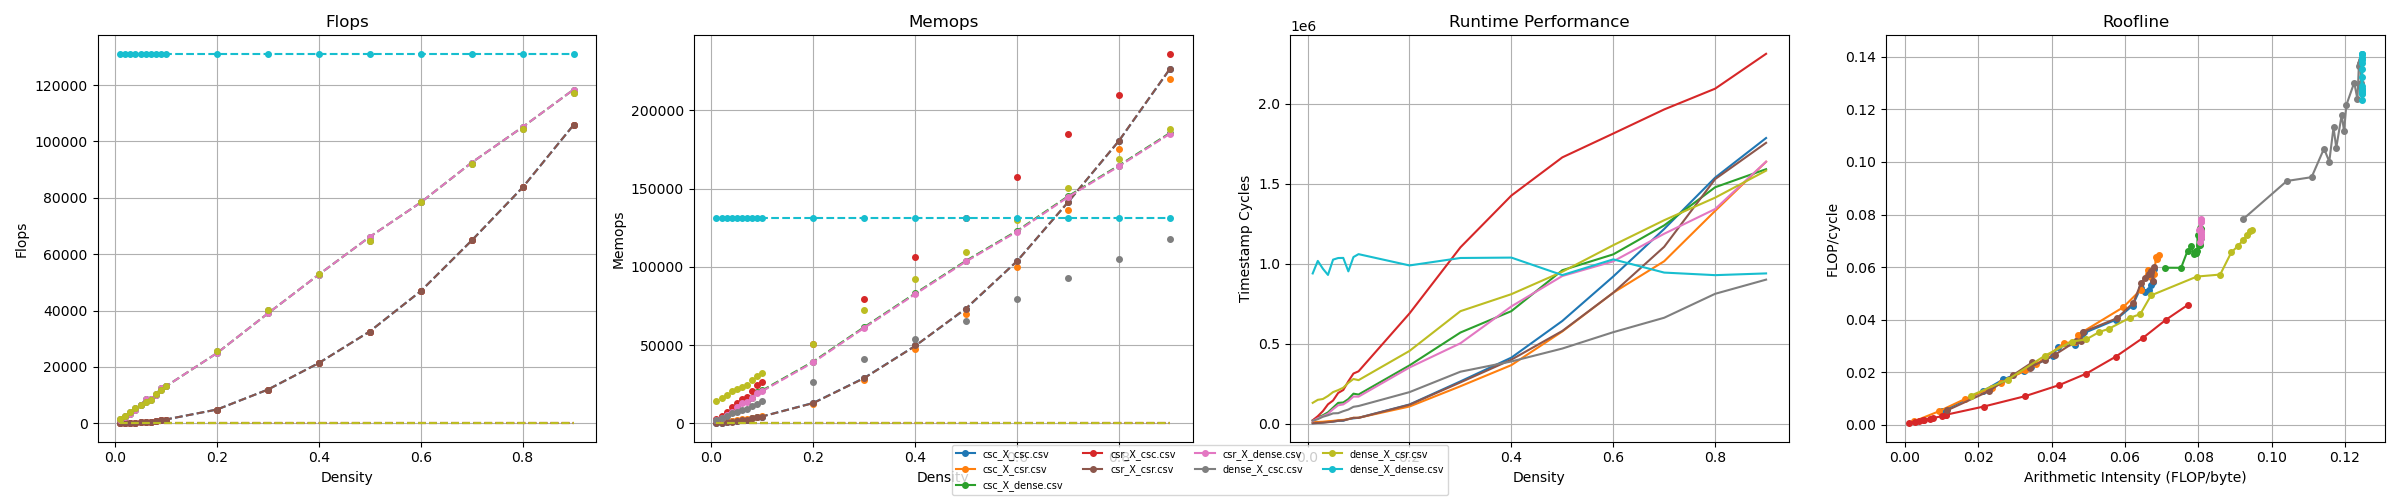
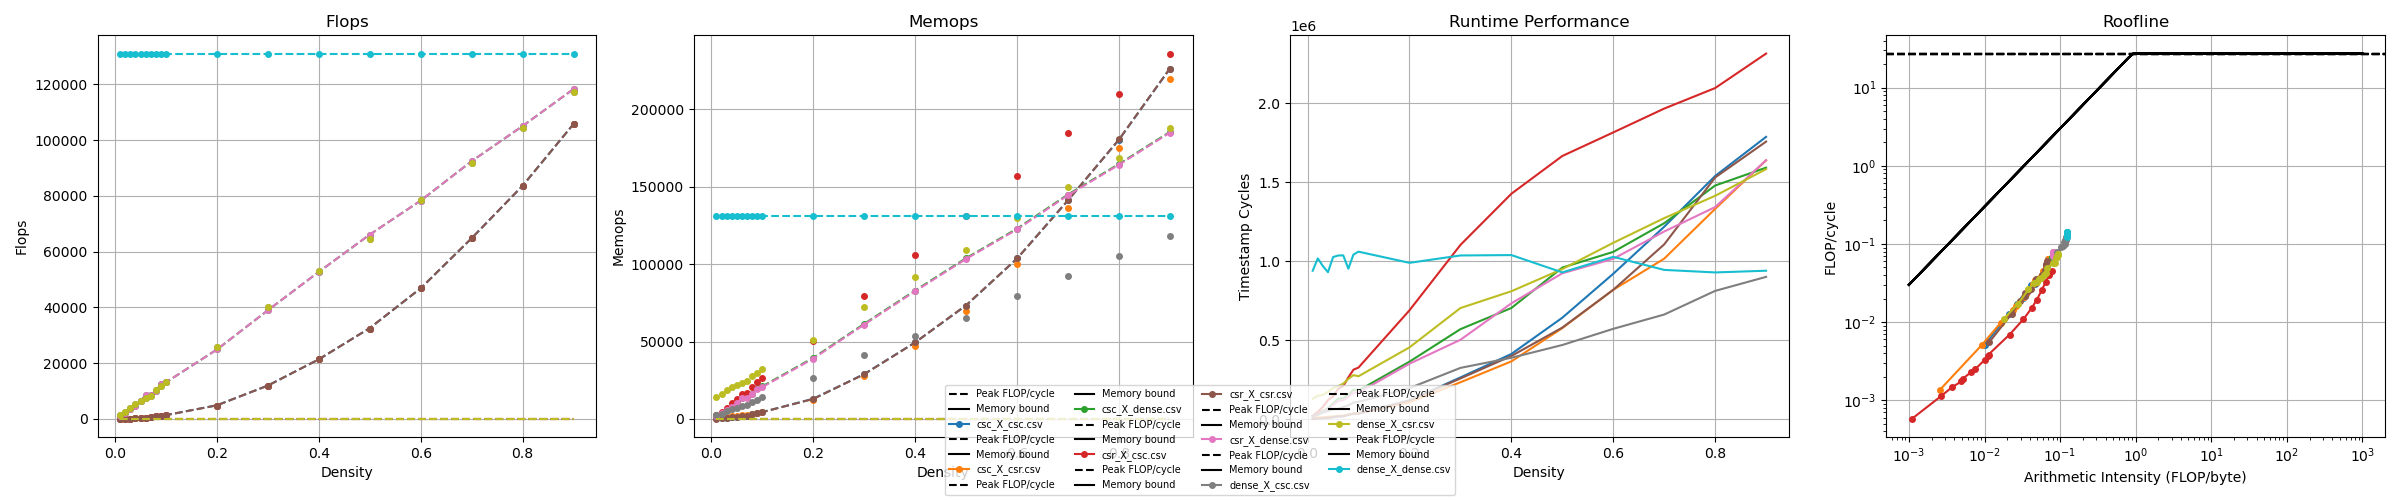
done for today

diff --git a/reptest_spmm.c b/reptest_spmm.c
@@ -34,14 +34,37 @@ struct Operation_Parameters
   Dense_Matrix output;
 };
 
+extern void read256_asm(u64 count, u8 *data);
+extern void fmadd_asm(u64 count);
+
+static u8 bandwidth_buffer[GB(1)] = {0};
+
 static
-void roofline_bandwidth(Repetition_Tester *tester, Operation_Parameters *params)
+void roofline_bandwidth(Repetition_Tester *tester)
 {
+  u64 byte_count = STATIC_COUNT(bandwidth_buffer);
+
+  repetition_tester_begin_time(tester);
+
+  read256_asm(byte_count, bandwidth_buffer);
+
+  repetition_tester_close_time(tester);
+
+  repetition_tester_count_bytes(tester, byte_count);
 }
 
 static
-void roofline_flops(Repetition_Tester *tester, Operation_Parameters *params)
+void roofline_flops(Repetition_Tester *tester)
 {
+  u64 flop_count = GB(4);
+
+  repetition_tester_begin_time(tester);
+
+  fmadd_asm(flop_count);
+
+  repetition_tester_close_time(tester);
+
+  repetition_tester_count_flops(tester, flop_count);
 }
 
 static
@@ -395,7 +418,6 @@ void matmul_dense_csc(Repetition_Tester *tester, Operation_Parameters *params)
   repetition_tester_close_time(tester);
 }
 
-
 Operation_Entry test_entries[] =
 {
   {STR("dense_X_dense"), matmul_dense_dense},
@@ -504,6 +526,44 @@ int main(int arg_count, char **args)
       {
         LOG_INFO("All entries match reference");
       }
+    }
+  }
+
+  // Roofline
+  {
+    {
+      Repetition_Tester bandwidth_tester = {0};
+      repetition_tester_new_wave(&bandwidth_tester, 0, cpu_timer_frequency, seconds_to_try_for_min);
+
+      printf("\n--- Roofline Bandwidth ---\n");
+      printf("                                                          \r");
+      while (repetition_tester_is_testing(&bandwidth_tester))
+      {
+        roofline_bandwidth(&bandwidth_tester);
+      }
+      Repetition_Test_Values v = bandwidth_tester.results.min;
+      u64 time    = v.v[REPTEST_VALUE_TIME];
+      u64 bytes   = v.v[REPTEST_VALUE_BYTE_COUNT];
+
+      printf("Roofline bandwidth: %f\n", (f64)bytes/time);
+    }
+
+    {
+      Repetition_Tester flop_tester = {0};
+      repetition_tester_new_wave(&flop_tester, 0, cpu_timer_frequency, seconds_to_try_for_min);
+
+      printf("\n--- Roofline flops/s ---\n");
+      printf("                                                          \r");
+      while (repetition_tester_is_testing(&flop_tester))
+      {
+        roofline_flops(&flop_tester);
+      }
+
+      Repetition_Test_Values v = flop_tester.results.min;
+      u64 time    = v.v[REPTEST_VALUE_TIME];
+      u64 flops   = v.v[REPTEST_VALUE_FLOP_COUNT];
+
+      printf("Roofline flops/cycle: %f\n", (f64)flops/time);
     }
   }
 

diff --git a/plot.py b/plot.py
@@ -129,13 +129,22 @@ for i, csv_file in enumerate(csv_files):
     plt.title('Runtime Performance')
     plt.grid(True)
 
+    plt.subplot(1,4,4)
+
     flops_per_byte = observed_flops / byte
     flops_per_cycle = observed_flops / time
+    # HACK: Just hardcoding after measuring. Automate this by dumping it from roofline test
+    peak_flops_per_cycle = 27.311
+    peak_bytes_per_cycle = 30.041
 
-    plt.subplot(1,4,4)
+    plt.axhline(y=peak_flops_per_cycle, color='black', linestyle='--', label='Peak FLOP/cycle')
+    x = np.logspace(-3, 3, 100)
+    plt.plot(x, np.minimum(peak_bytes_per_cycle * x, peak_flops_per_cycle),
+            color='black', linestyle='-', label='Memory bound')
+
     plt.plot(flops_per_byte, flops_per_cycle, 'o-', color=colors[i], label=csv_file, markersize=4)
-    # plt.xscale('log')
-    # plt.yscale('log')
+    plt.xscale('log')
+    plt.yscale('log')
     plt.xlabel('Arithmetic Intensity (FLOP/byte)')
     plt.ylabel('FLOP/cycle')
     plt.title('Roofline')
